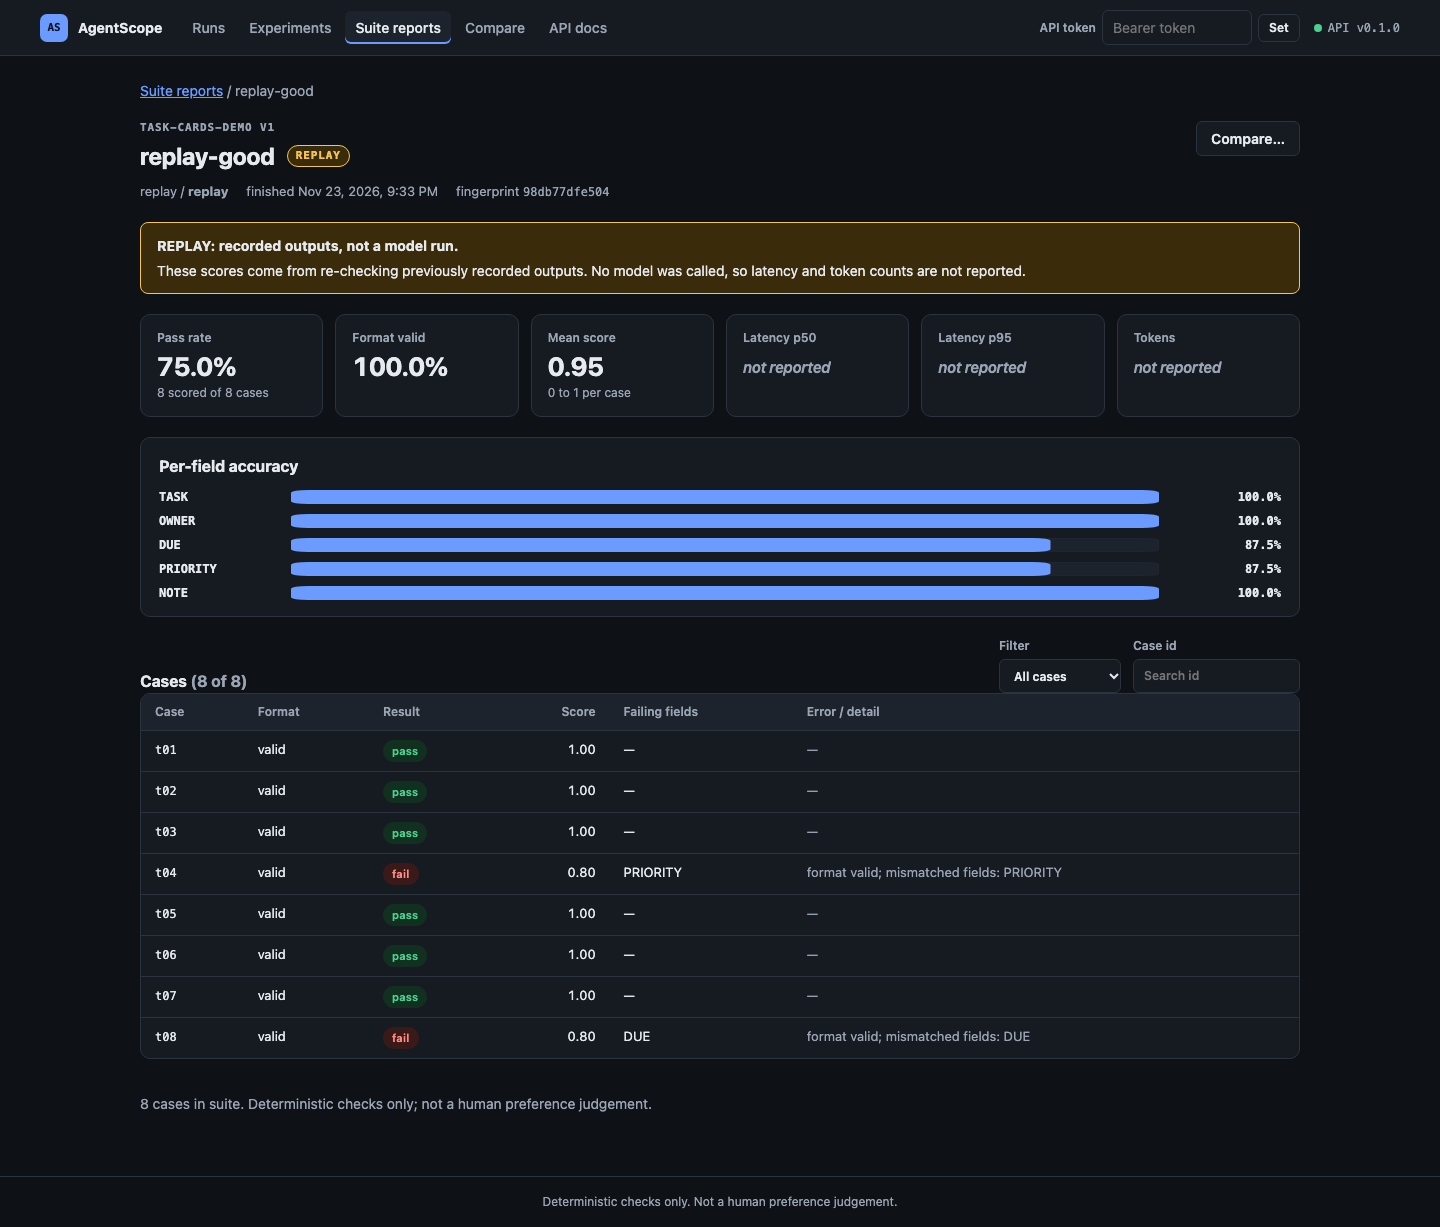
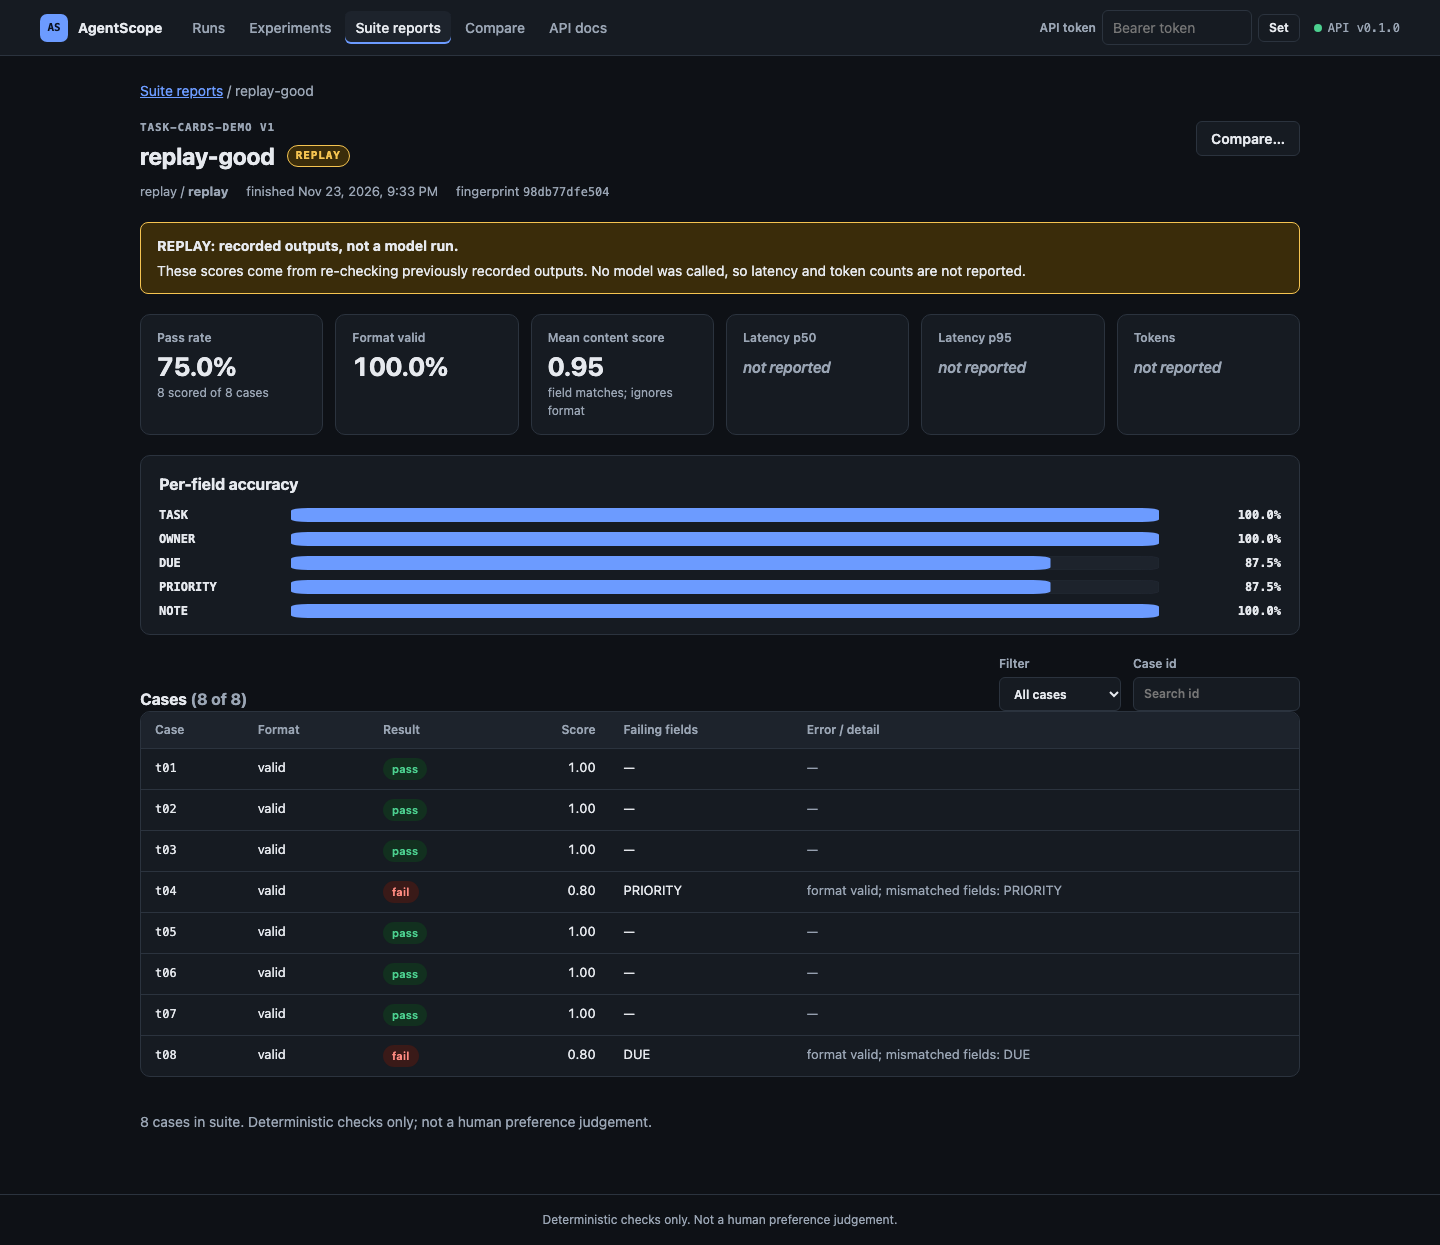
Dashboard: harden hash routing, add error boundary, rename mean score tile
Malformed percent-escapes in the hash no longer crash rendering; a top-level
ErrorBoundary shows a recoverable panel. Mean score is labelled as a content score.
Rebuilds the static bundle and screenshots; docs updated for the new compare path.

diff --git a/frontend/src/components/ErrorBoundary.tsx b/frontend/src/components/ErrorBoundary.tsx
@@ -1,0 +1,29 @@
+import {Component, type ErrorInfo, type ReactNode} from "react";
+
+/** Top-level guard: a render error shows a recoverable panel instead of a blank page. */
+export class ErrorBoundary extends Component<{children: ReactNode}, {error: Error | null}> {
+  state: {error: Error | null} = {error: null};
+
+  static getDerivedStateFromError(error: Error) {
+    return {error};
+  }
+
+  componentDidCatch(error: Error, info: ErrorInfo) {
+    console.error("dashboard render error", error, info.componentStack);
+  }
+
+  render() {
+    if (!this.state.error) return this.props.children;
+    return <main className="callout callout--error" role="alert">
+      <div>
+        <strong>Something went wrong displaying this page.</strong>
+        <p>{this.state.error.message}</p>
+        <p className="meta"><span>Your data is unaffected; this is a display error.</span></p>
+      </div>
+      <div className="actions">
+        <button className="btn" onClick={() => this.setState({error: null})}>Try again</button>
+        <a className="btn" href="#/reports" onClick={() => this.setState({error: null})}>Back to reports</a>
+      </div>
+    </main>;
+  }
+}

diff --git a/frontend/test/robustness.test.tsx b/frontend/test/robustness.test.tsx
@@ -1,0 +1,27 @@
+import {cleanup, fireEvent, render, screen} from "@testing-library/react";
+import {afterEach, describe, expect, it, vi} from "vitest";
+import {ErrorBoundary} from "../src/components/ErrorBoundary";
+import {parseHash} from "../src/lib/route";
+
+afterEach(cleanup);
+
+describe("robustness", () => {
+  it("parseHash survives malformed percent-escapes", () => {
+    expect(parseHash("#/reports/%E0%A4%A").segments).toEqual(["reports", "%E0%A4%A"]);
+    expect(parseHash("#/reports/a%20b").segments).toEqual(["reports", "a b"]);
+  });
+
+  it("ErrorBoundary shows a recoverable panel instead of a blank page", () => {
+    vi.spyOn(console, "error").mockImplementation(() => {});
+    let broken = true;
+    function Maybe() {
+      if (broken) throw new Error("kaboom");
+      return <p>recovered</p>;
+    }
+    render(<ErrorBoundary><Maybe /></ErrorBoundary>);
+    expect(screen.getByRole("alert").textContent).toContain("kaboom");
+    broken = false;
+    fireEvent.click(screen.getByText("Try again"));
+    expect(screen.getByText("recovered")).toBeTruthy();
+  });
+});

diff --git a/frontend/src/pages/SuiteReportDetail.tsx b/frontend/src/pages/SuiteReportDetail.tsx
@@ -65,7 +65,7 @@ export function SuiteReportDetailPage({id}: {id: string}) {
         <section aria-label="Aggregate metrics" className="tiles">
           <Tile label="Pass rate" value={pct(agg.pass_rate, 1)} note={`${agg.n_scored} scored of ${agg.n} cases`} />
           <Tile label="Format valid" value={pct(agg.format_valid_rate, 1)} />
-          <Tile label="Mean score" value={score(agg.mean_score)} note="0 to 1 per case" />
+          <Tile label="Mean content score" value={score(agg.mean_score)} note="field matches; ignores format" />
           <Tile label="Latency p50" value={ms(agg.latency_ms.p50)} note={agg.latency_ms.n ? `n=${agg.latency_ms.n}` : undefined} />
           <Tile label="Latency p95" value={ms(agg.latency_ms.p95)} note={agg.latency_ms.n ? agg.latency_ms.method : undefined} />
           <Tile label="Tokens" value={tokenTotal(agg.tokens)}

diff --git a/frontend/src/pages/Compare.tsx b/frontend/src/pages/Compare.tsx
@@ -59,7 +59,7 @@ export function ComparePage({a, b}: {a: string; b: string}) {
         <section className="tiles" aria-label="Aggregate deltas (B minus A)">
           <Tile label="Pass rate Δ" value={pp(c.pass_rate_delta)} note={`passed only in B: ${c.passed_b_only}, only in A: ${c.passed_a_only}`} />
           <Tile label="Format valid Δ" value={pp(c.format_valid_rate_delta)} note={`valid only in B: ${c.format_valid_b_only}, only in A: ${c.format_valid_a_only}`} />
-          <Tile label="Mean score Δ" value={signed(c.mean_score_delta)} />
+          <Tile label="Mean content score Δ" value={signed(c.mean_score_delta)} />
         </section>
         <section className="card" aria-labelledby="delta-h">
           <h2 id="delta-h">Per-field accuracy change (B minus A)</h2>

diff --git a/frontend/src/lib/route.ts b/frontend/src/lib/route.ts
@@ -3,10 +3,19 @@ import {useEffect, useState} from "react";
 /** Minimal hash router: "#/reports/abc?x=1" -> {segments: ["reports","abc"], query}. */
 export type Route = {segments: string[]; query: URLSearchParams};
 
+/** Malformed percent-escapes must not crash rendering: fall back to the raw text. */
+function safeDecode(part: string): string {
+  try {
+    return decodeURIComponent(part);
+  } catch {
+    return part;
+  }
+}
+
 export function parseHash(hash: string): Route {
   const [path = "", search = ""] = hash.replace(/^#/, "").split("?");
   return {
-    segments: path.split("/").filter(Boolean).map(part => decodeURIComponent(part)),
+    segments: path.split("/").filter(Boolean).map(safeDecode),
     query: new URLSearchParams(search),
   };
 }

diff --git a/frontend/test/pages.test.tsx b/frontend/test/pages.test.tsx
@@ -53,7 +53,7 @@ describe("pages", () => {
   });
 
   it("compare view shows paired counts, deltas and the counts-only note", async () => {
-    route({"/api/v1/suite-reports/compare": () => jsonResponse(comparison),
+    route({"/api/v1/suite-compare": () => jsonResponse(comparison),
       "/api/v1/suite-reports": () => jsonResponse([comparison.a, comparison.b])});
     render(<ComparePage a="chatty" b="good" />);
     const counts = within(await screen.findByLabelText("Paired case counts"));

diff --git a/frontend/src/main.tsx b/frontend/src/main.tsx
@@ -1,8 +1,9 @@
 import {StrictMode} from "react";
 import {createRoot} from "react-dom/client";
 import {App} from "./App";
+import {ErrorBoundary} from "./components/ErrorBoundary";
 import "./styles.css";
 
 const root = document.getElementById("root");
 if (!root) throw new Error("AgentScope root element is missing");
-createRoot(root).render(<StrictMode><App /></StrictMode>);
+createRoot(root).render(<StrictMode><ErrorBoundary><App /></ErrorBoundary></StrictMode>);

diff --git a/frontend/src/api/client.ts b/frontend/src/api/client.ts
@@ -95,5 +95,5 @@ export const api = {
   report: (id: string, signal?: AbortSignal) =>
     request<SuiteReport>(`/api/v1/suite-reports/${enc(id)}`, {signal}),
   compare: (a: string, b: string, signal?: AbortSignal) =>
-    request<Comparison>(`/api/v1/suite-reports/compare?a=${enc(a)}&b=${enc(b)}`, {signal}),
+    request<Comparison>(`/api/v1/suite-compare?a=${enc(a)}&b=${enc(b)}`, {signal}),
 };

diff --git a/docs/dashboard.md b/docs/dashboard.md
@@ -36,7 +36,7 @@ API routes (read-only, behind the same auth as the rest of `/api/`):
 
 - `GET /api/v1/suite-reports`
 - `GET /api/v1/suite-reports/{report_id}`
-- `GET /api/v1/suite-reports/compare?a=<id>&b=<id>[&allow_mismatch=true]`
+- `GET /api/v1/suite-compare?a=<id>&b=<id>[&allow_mismatch=true]`
 
 Report ids must match `^[A-Za-z0-9][A-Za-z0-9_.-]{0,127}$`. Symlinked report directories or
 `results.json` files are never followed, and the resolved file must stay inside the reports
